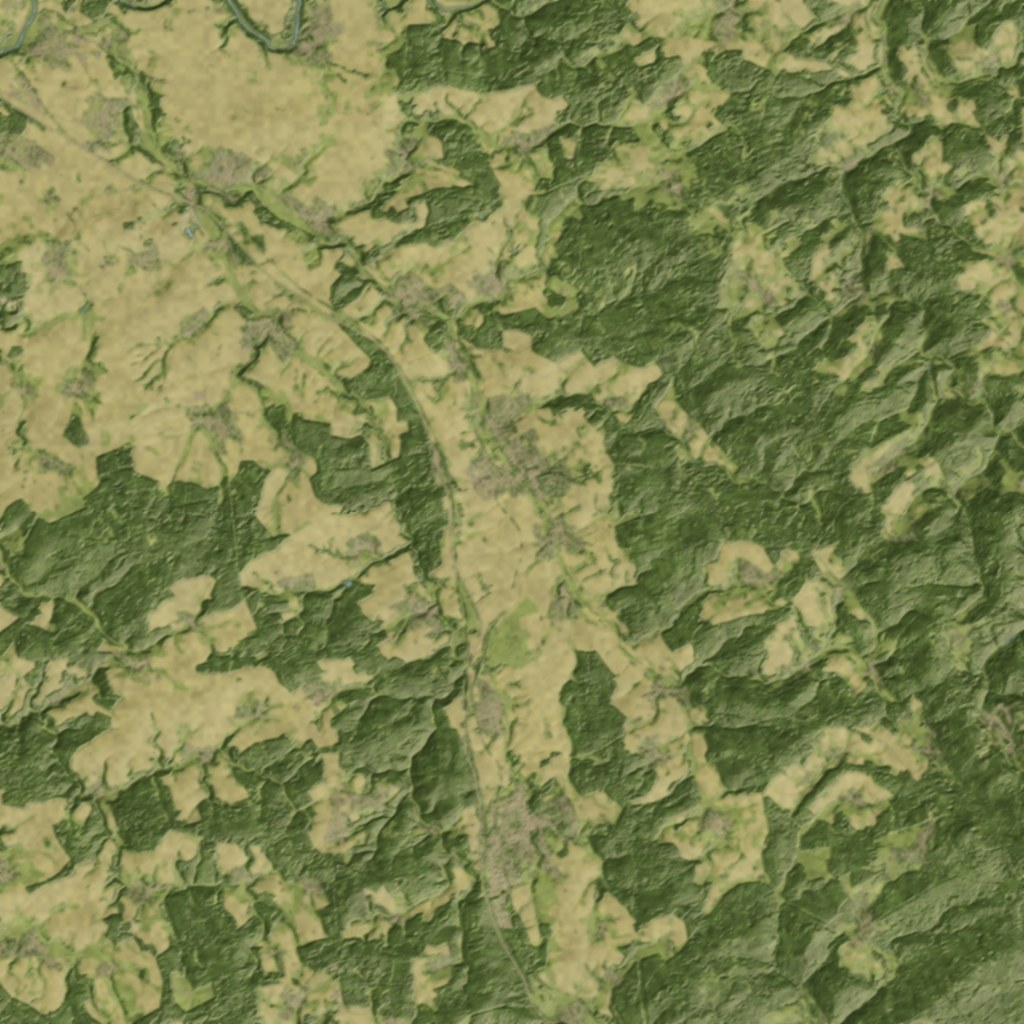
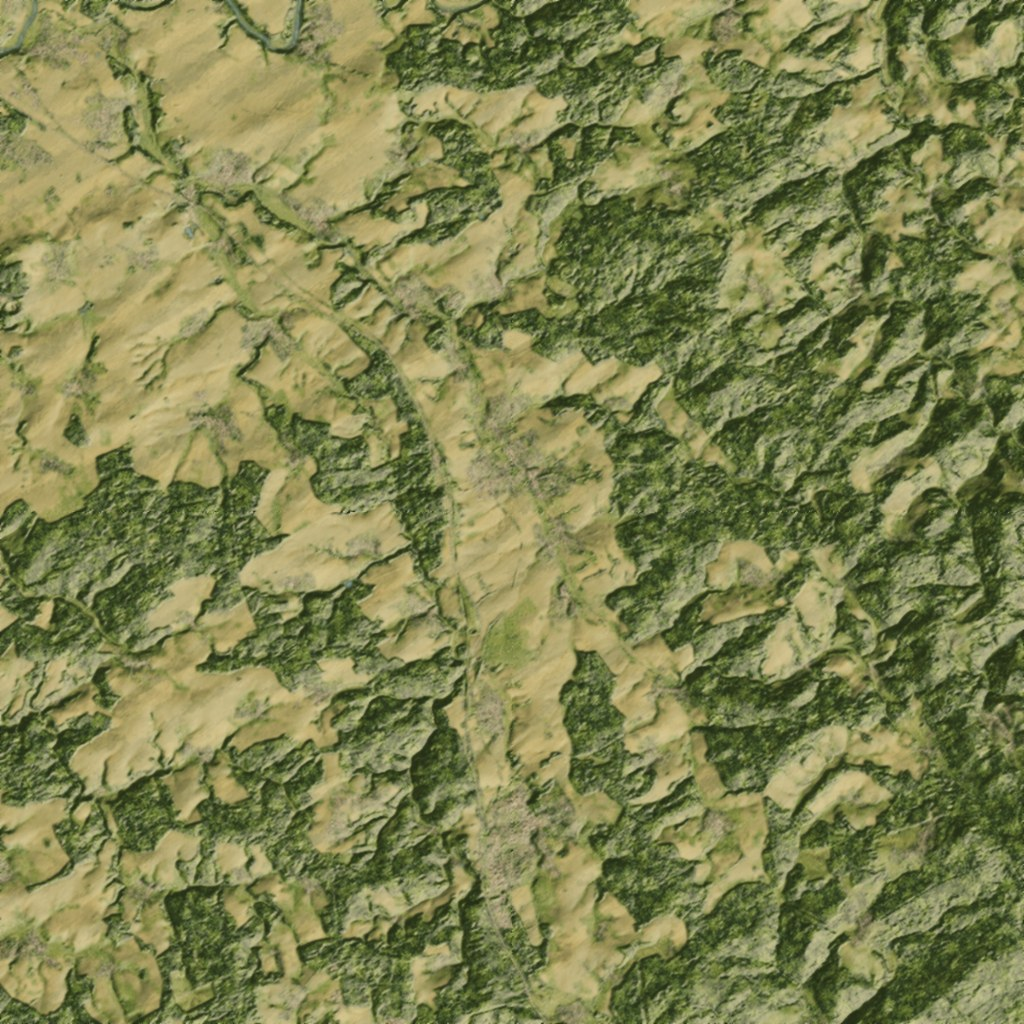
GM-084: Vorher/Nachher-Bilder, Frontier-Materialien abgestimmt

diff --git a/tools/terrain/render_tiles.py b/tools/terrain/render_tiles.py
@@ -25,6 +25,8 @@ from scipy.ndimage import gaussian_filter
 ROOT = pathlib.Path(__file__).resolve().parents[2]
 DATA = pathlib.Path(os.environ.get("EZMAPS_DATA", pathlib.Path.home() / "EzMapsData"))
 MAT_DIR = ROOT / "tools" / "terrain" / "materials"
+MAT_SCALE = 0.35   # GM-084: Materialgröße relativ zu Weltpixeln
+MAT_TINT = 0.6     # GM-084: Anteil der Grundfarbe aus der Palette
 T = 512           # Kachelgröße in Pixel (512 = scharf auf dem iPhone bei tileSize 512)
 R = 6378137.0
 
@@ -70,7 +72,7 @@ def read(kind, bounds, size, resampling):
     return out
 
 
-def hillshade(dem, cell, az=315, alt=45, exag=1.6):
+def hillshade(dem, cell, az=315, alt=45, exag=2.4):  # GM-084: kräftiger (Zielbild: Gelände ist das Wichtigste)
     dy, dx = np.gradient(dem * exag, cell)
     slope = np.arctan(np.hypot(dx, dy))
     aspect = np.arctan2(-dx, dy)
@@ -99,7 +101,13 @@ def material(name, gx, gy):
     p = MAT_DIR / f"{name}.png"
     if p.exists():
         if name not in _mats:
-            _mats[name] = np.asarray(Image.open(p).convert("RGB"), dtype=np.float32)
+            # GM-084: Codex-Materialien verkleinern (Kronen waren riesig) und Richtung Grundfarbe ziehen (Felder zu gelb)
+            im = Image.open(p).convert("RGB")
+            im = im.resize((int(im.width * MAT_SCALE), int(im.height * MAT_SCALE)), Image.Resampling.LANCZOS)
+            a = np.asarray(im, dtype=np.float32)
+            base = np.array(BASE[name], dtype=np.float32)
+            mean = a.reshape(-1, 3).mean(0)
+            _mats[name] = (a - mean) * 0.85 + (mean * (1 - MAT_TINT) + base * MAT_TINT)
         m = _mats[name]
         return m[(gy % m.shape[0]).astype(np.int64), (gx % m.shape[1]).astype(np.int64)]
     base = np.array(BASE[name], dtype=np.float32)
@@ -138,7 +146,7 @@ def render(z, x, y):
     rgb /= wsum[..., None]
     water = (lc == 80).astype(np.float32)
     # Relief: Schatten olivbraun, Licht warm – nicht auf Wasser
-    shade = (hs - 0.62) * 1.25
+    shade = (hs - 0.6) * 1.7
     tint = np.where(shade[..., None] < 0, np.array([35, 43, 20], np.float32), np.array([234, 223, 184], np.float32))
     a = np.clip(np.abs(shade), 0, 0.85)[..., None] * (1 - water[..., None])
     rgb = rgb * (1 - a) + tint * a

diff --git a/CHANGELOG.md b/CHANGELOG.md
@@ -2,6 +2,20 @@
 
 Neue Einträge oben. Nummernreihe: `GM-xxx`.
 
+## GM-084 – Vorher/Nachher-Bilder zur Freigabe; Frontier-Materialien abgestimmt
+
+**Ziel:** Nutzer: „alles umsetzen, aber immer ein Vorher-Nachher-Bild 1:1, das ich absegnen muss“; Spielgrafiken bleiben in der App.
+
+**Dateien:** `tools/terrain/render_tiles.py`, `docs/frontier-v2/kacheln-z11/12/14.jpg`, `docs/vorher-nachher/` (neu), `docs/overlay-vorschlag/`
+
+**Geändert:**
+- Frontier-Kacheln: Codex-Materialien auf 35 % verkleinert (Kronen waren riesig), 60 % zur Palettenfarbe gezogen (Felder zu gelb), Relief kräftiger (Überhöhung 2,4, Schatten stärker). Nur im Rechen-Skript, noch nicht in der App.
+- Vorher/Nachher-Bilder in Originalgröße: Frontier Zoom 12/14 (echter Render), 10 Pixel-Symbole auf Pfosten, 12+16 Neon-Leuchtrand und Tempo rot, 13 Wild-West-Pergament mit Siegel, 14 Suche im Pixel-Stil, Pixel-Marker mit Richtungspfeil. Montagen auf Screenshots, außer Frontier.
+
+**Tatsächlich geprüft:** Bilder angesehen.
+
+**Ungetestet:** nichts davon in der App (wartet auf Freigabe).
+
 ## GM-083 – Overlays: Knopf-Leiste, kleiner Hinweis, Navigation aufgeräumt; Toy-Town-Häuschen gemischt
 
 **Ziel:** Nutzer gibt Overlay-Vorschläge 3, 4, 6, 7, 8, 9 und 11 frei (1 und 2 ausdrücklich nicht; 5 offen).
